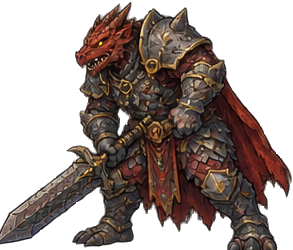
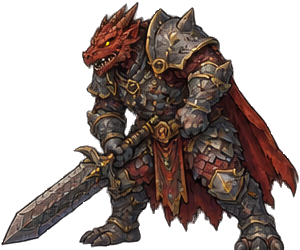
Fix sprites cropped at sheet cell edges: Vharax's face, Old Gator Moss's tail, dragon knight's sword

Changed region(s): [[0.0, 0.0, 0.9522, 1.0], [0.9522, 0.616, 0.9829, 0.644], [0.9215, 0.672, 0.9522, 0.7]]

diff --git a/index.html b/index.html
@@ -564,7 +564,7 @@ h3{font-weight:700;letter-spacing:.18em;color:#e1c27a}
 <script src="https://cdn.jsdelivr.net/npm/@supabase/supabase-js@2.45.4/dist/umd/supabase.min.js"></script>
 <script>
 /* ---------- accounts and cloud save (Supabase). The game script below starts only after sign-in. ---------- */
-const BUILD='20261022223624';   // stamped with a timestamp by tools/publish.sh on every publish; used to bust caches
+const BUILD='20261022223951';   // stamped with a timestamp by tools/publish.sh on every publish; used to bust caches
 const SB_URL='https://mhijikmuofwralqedvyr.supabase.co',SB_KEY='sb_publishable_Krc_uWuANKyaiO8GKwOXAQ_9popGhIJ';
 try{const v=BUILD==='dev'?'':'?v='+BUILD,u=n=>'url(assets/ui/'+n+'.png'+v+')',r=document.documentElement.style;r.setProperty('--ui-panel',u('panel_dark'));r.setProperty('--ui-ribbon',u('ribbon_red'));for(let q=0;q<5;q++)r.setProperty('--ui-card'+q,u('card'+q));r.setProperty('--ui-ribbonb',u('ribbon_blue'));r.setProperty('--ui-close',u('btn_close'));r.setProperty('--ui-gold',u('btn_gold'));r.setProperty('--ui-blue',u('btn_blue'));r.setProperty('--ui-red',u('btn_red'));r.setProperty('--ui-grey',u('btn_grey'));r.setProperty('--ui-tab',u('tab_off'));r.setProperty('--ui-tabon',u('tab_on'));}catch(e){}
 /* ---------- Icky App Builds splash: plays once per session, then hands over to the sign-in gate ---------- */
